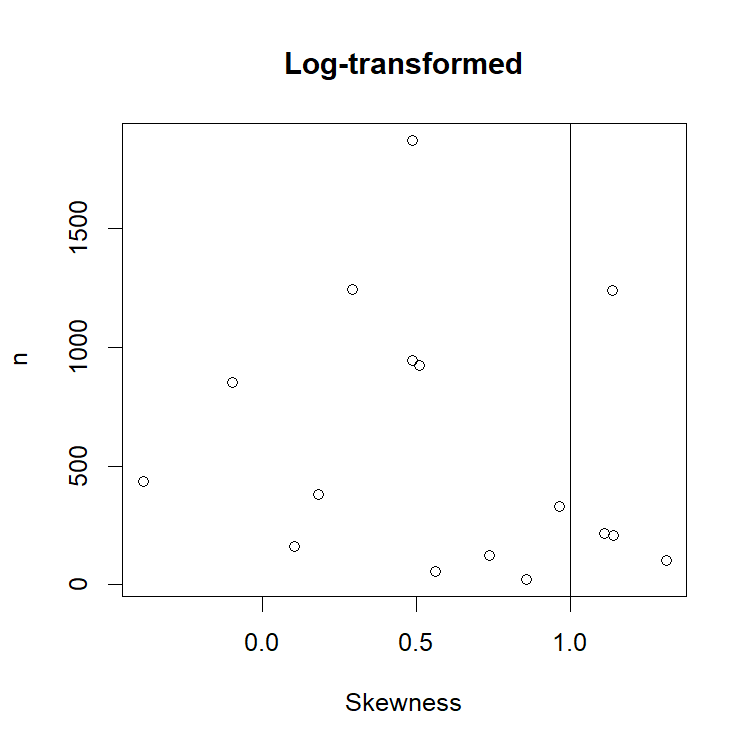
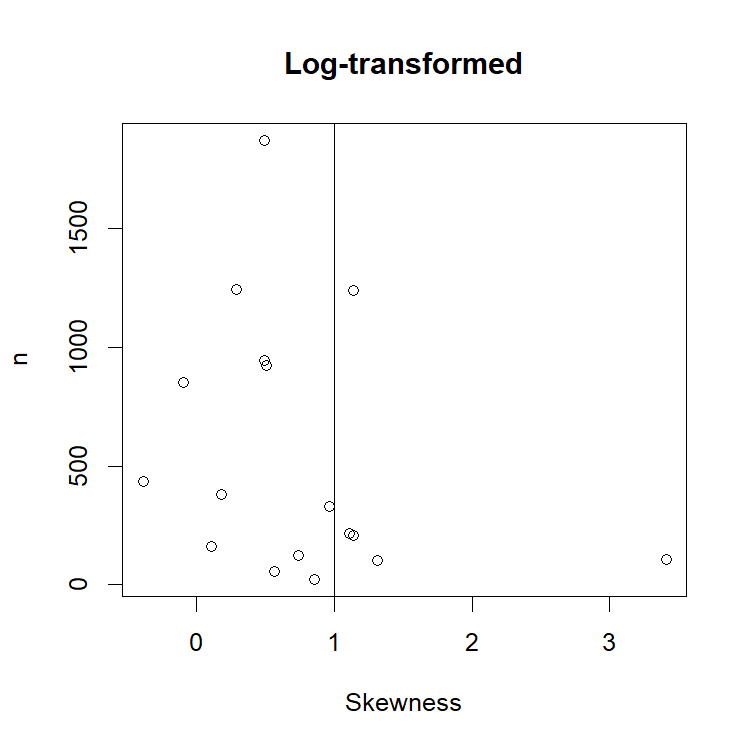
Add Imai Data

diff --git a/README.md b/README.md
@@ -6,7 +6,5 @@ Writes the results to IL6-only-stacked.csv
 
 ## IL6_distr.R
 - Requires the file IL6-only-stacked.csv, available from the Meta-Research drive. The file should be placed in the root of the project.
-- Set working directory to root of project.
-
-
+- Set working directory to the IL6-data folder.
 
